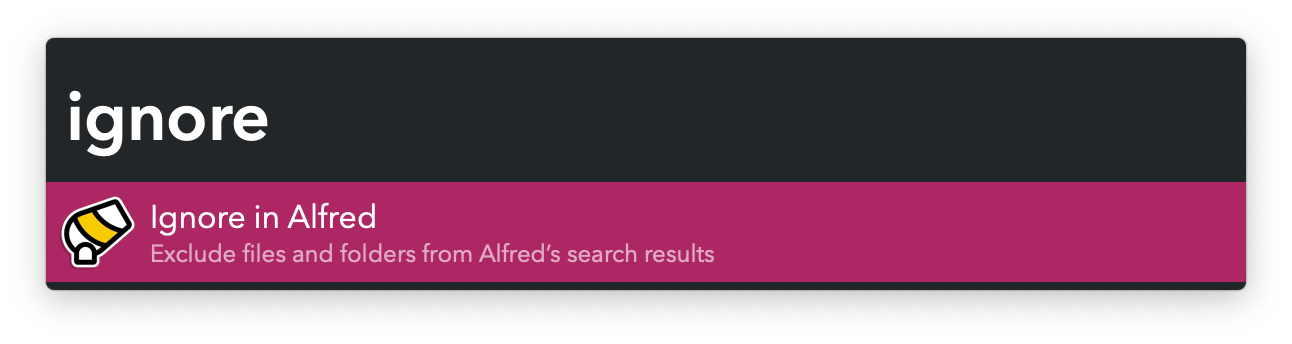
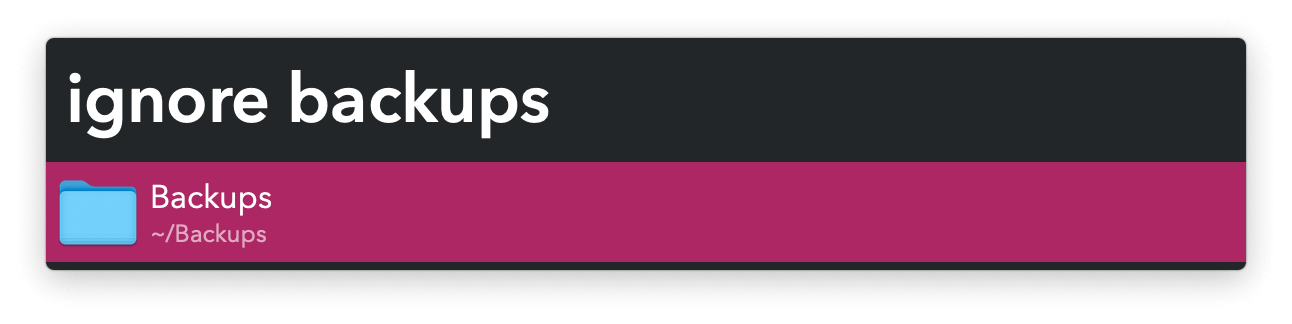
Add configurable keywords

Changed region(s): [[0.031, 0.4938, 0.9907, 0.8642], [0.031, 0.216, 0.4334, 0.463], [0.031, 0.0926, 0.9598, 0.1235]]

diff --git a/README.md b/README.md
@@ -6,13 +6,16 @@ Exclude files and folders from Alfred’s search results
 
 ## About
 
-The macOS metadata search API only allows including search folders, not excluding them. But by tagging files as `alfred:ignore`, Alfred can ignore those results. This workflow makes that tagging easier, adding or removing it from entire folder trees.
+## Usage
 
-In addition to Universal Actions, there are Filters to `ignore`, `unignore`, and `reignore`.
+Use the [Universal Actions](https://www.alfredapp.com/help/features/universal-actions/) to remove or readd files and folders from Alfred’s search results.
 
-![](Workflow/images/about/universal_actions.png)
-![](Workflow/images/about/ignore.png)
-![](Workflow/images/about/unignore.png)
-![](Workflow/images/about/reignore.png)
+![Universal Actions for ignore and unignore](Workflow/images/about/universal_actions.png)
+
+Alteratively, run the Keywords (defaults: `ignore`, `unignore`, and `reignore`) and type to filter.
+
+![Alfred search for ignore](Workflow/images/about/ignore.png)
+![Alfred search for unignore](Workflow/images/about/unignore.png)
+![Alfred search for reignore](Workflow/images/about/reignore.png)
 
 <a href='https://github.com/alfredapp/ignore-in-alfred-workflow/releases/latest/download/Ignore.in.Alfred.alfredworkflow'>⤓ Download Workflow</a>
